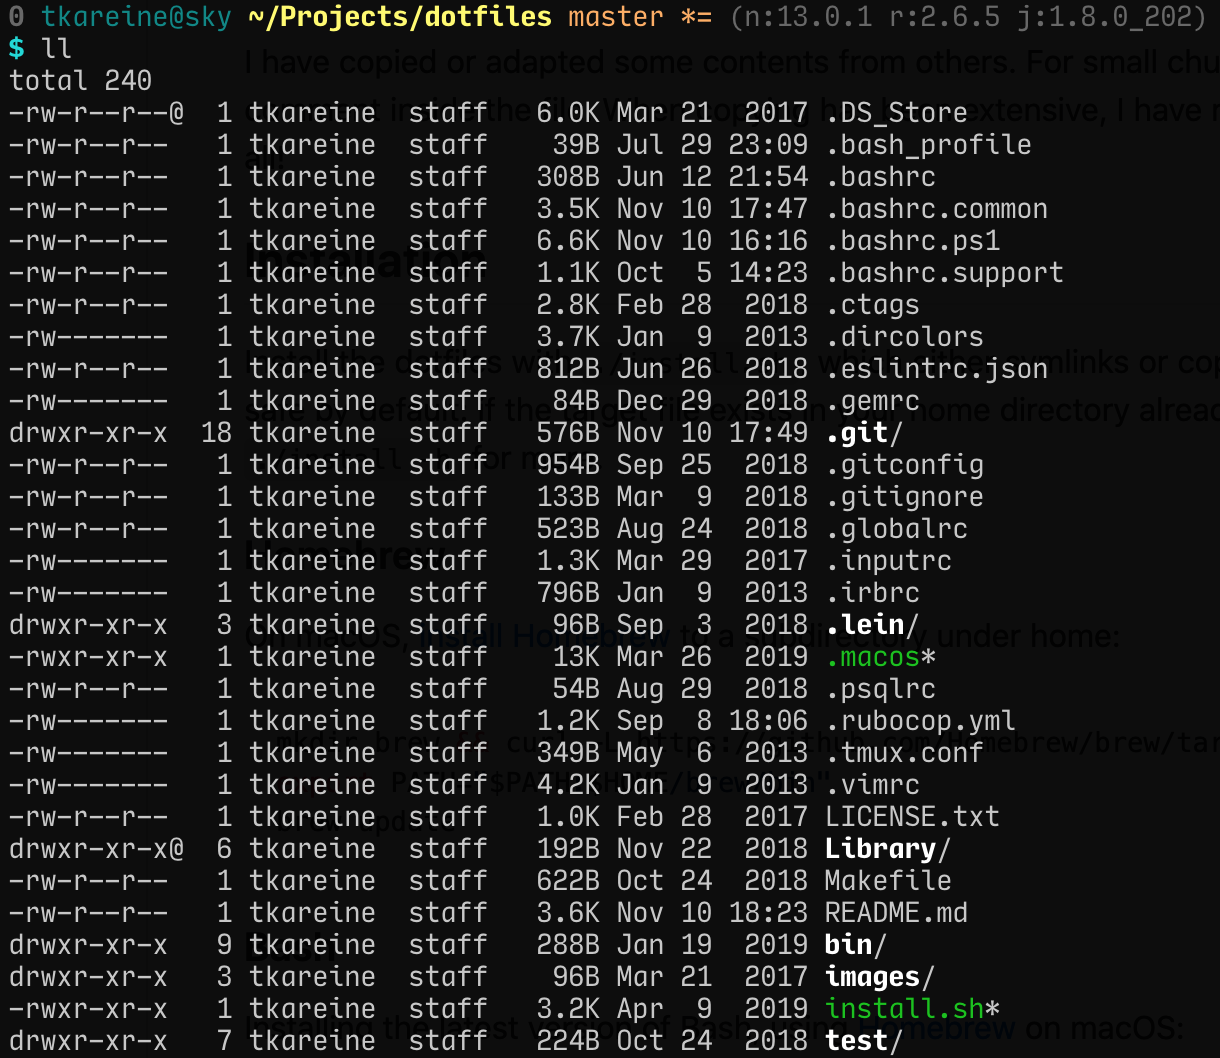
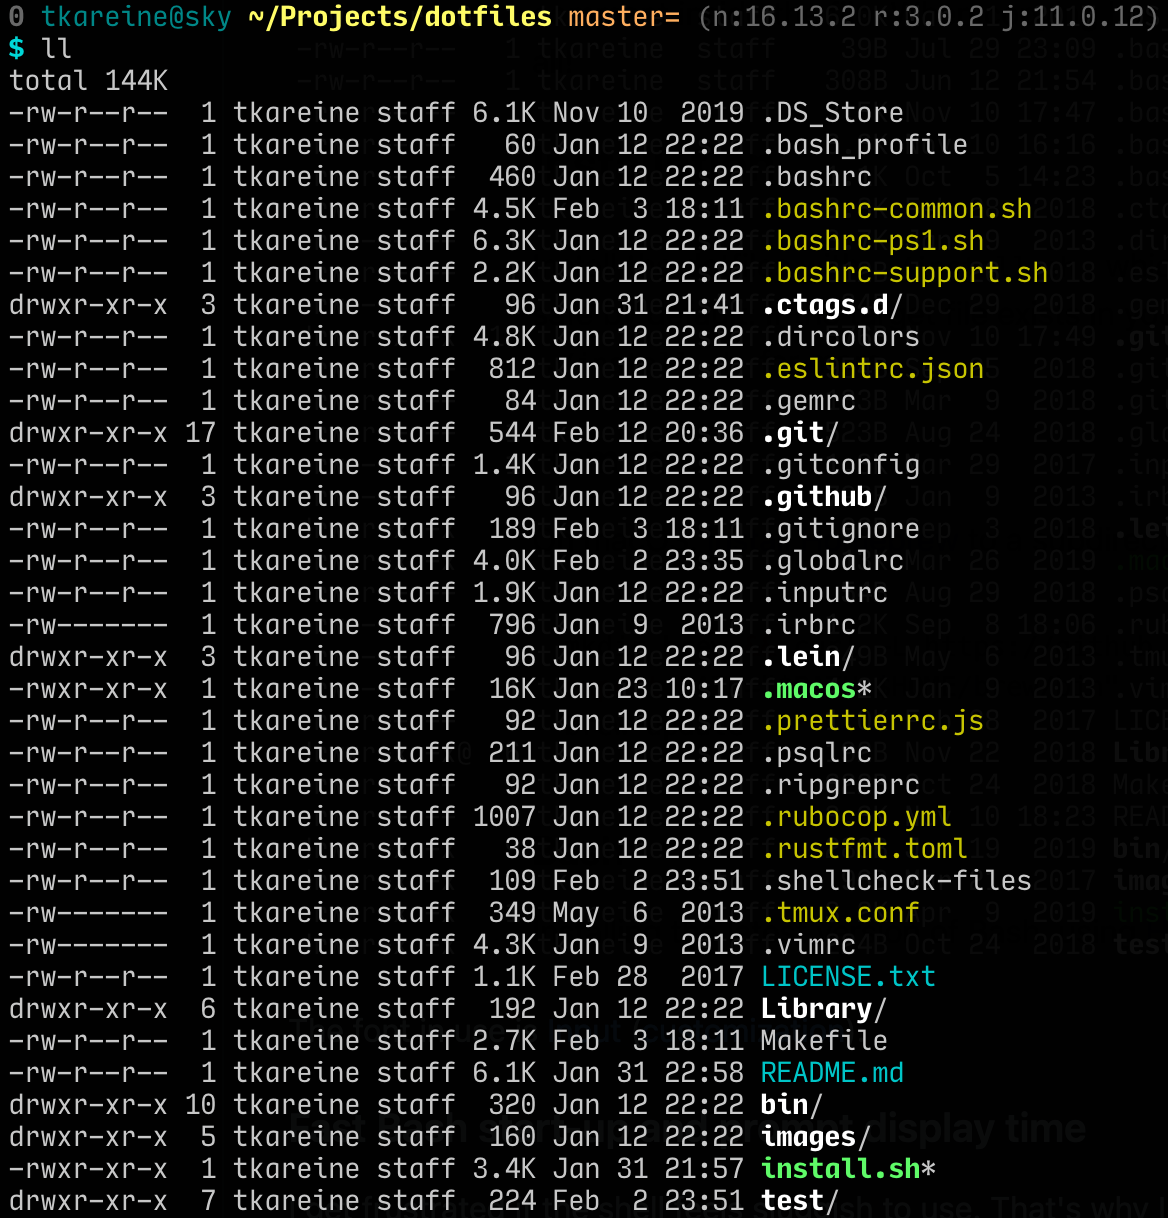
README: update the screenshot of Bash prompt in iTerm2

Changed region(s): [[0.0, 0.0, 0.9863, 0.9981], [0.8322, 0.7174, 0.8938, 0.7486]]

diff --git a/README.md b/README.md
@@ -30,7 +30,7 @@ programming skills in shape.
 
 A screenshot from [iTerm2], showing the Bash prompt:
 
-<img src="https://github.com/tkareine/dotfiles/raw/master/images/bash-prompt-iterm2-input.png" title="My Bash prompt in iTerm2" alt="My Bash prompt in iTerm2" width="610">
+<img src="https://github.com/tkareine/dotfiles/raw/master/images/bash-prompt-iterm2-input.png" title="My Bash prompt in iTerm2" alt="My Bash prompt in iTerm2" width="584">
 
 The font in use is [Input][Input font]
 ([customization](https://input.fontbureau.com/download/index.html?size=14&language=python&theme=solarized-dark&family=InputMono&width=300&weight=400&line-height=1.1&a=ss&g=ss&i=serifs_round&l=serifs_round&zero=0&asterisk=height&braces=straight&preset=consolas&customize=please)).
